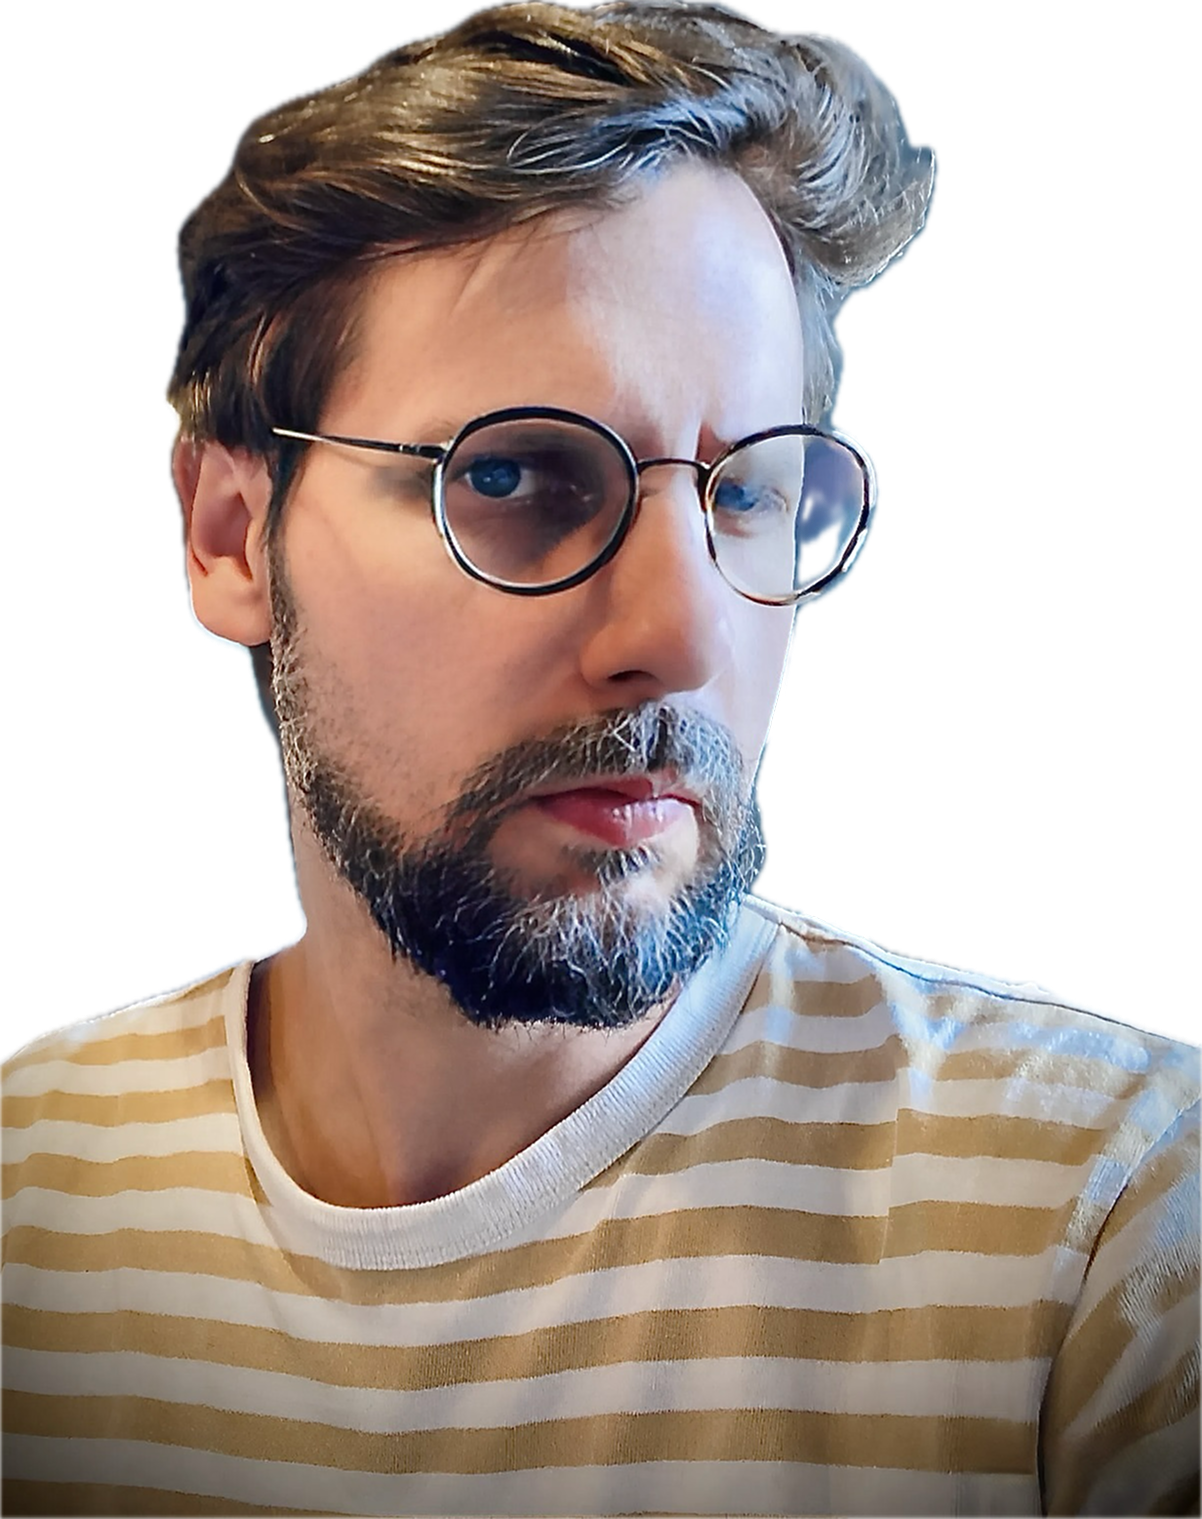
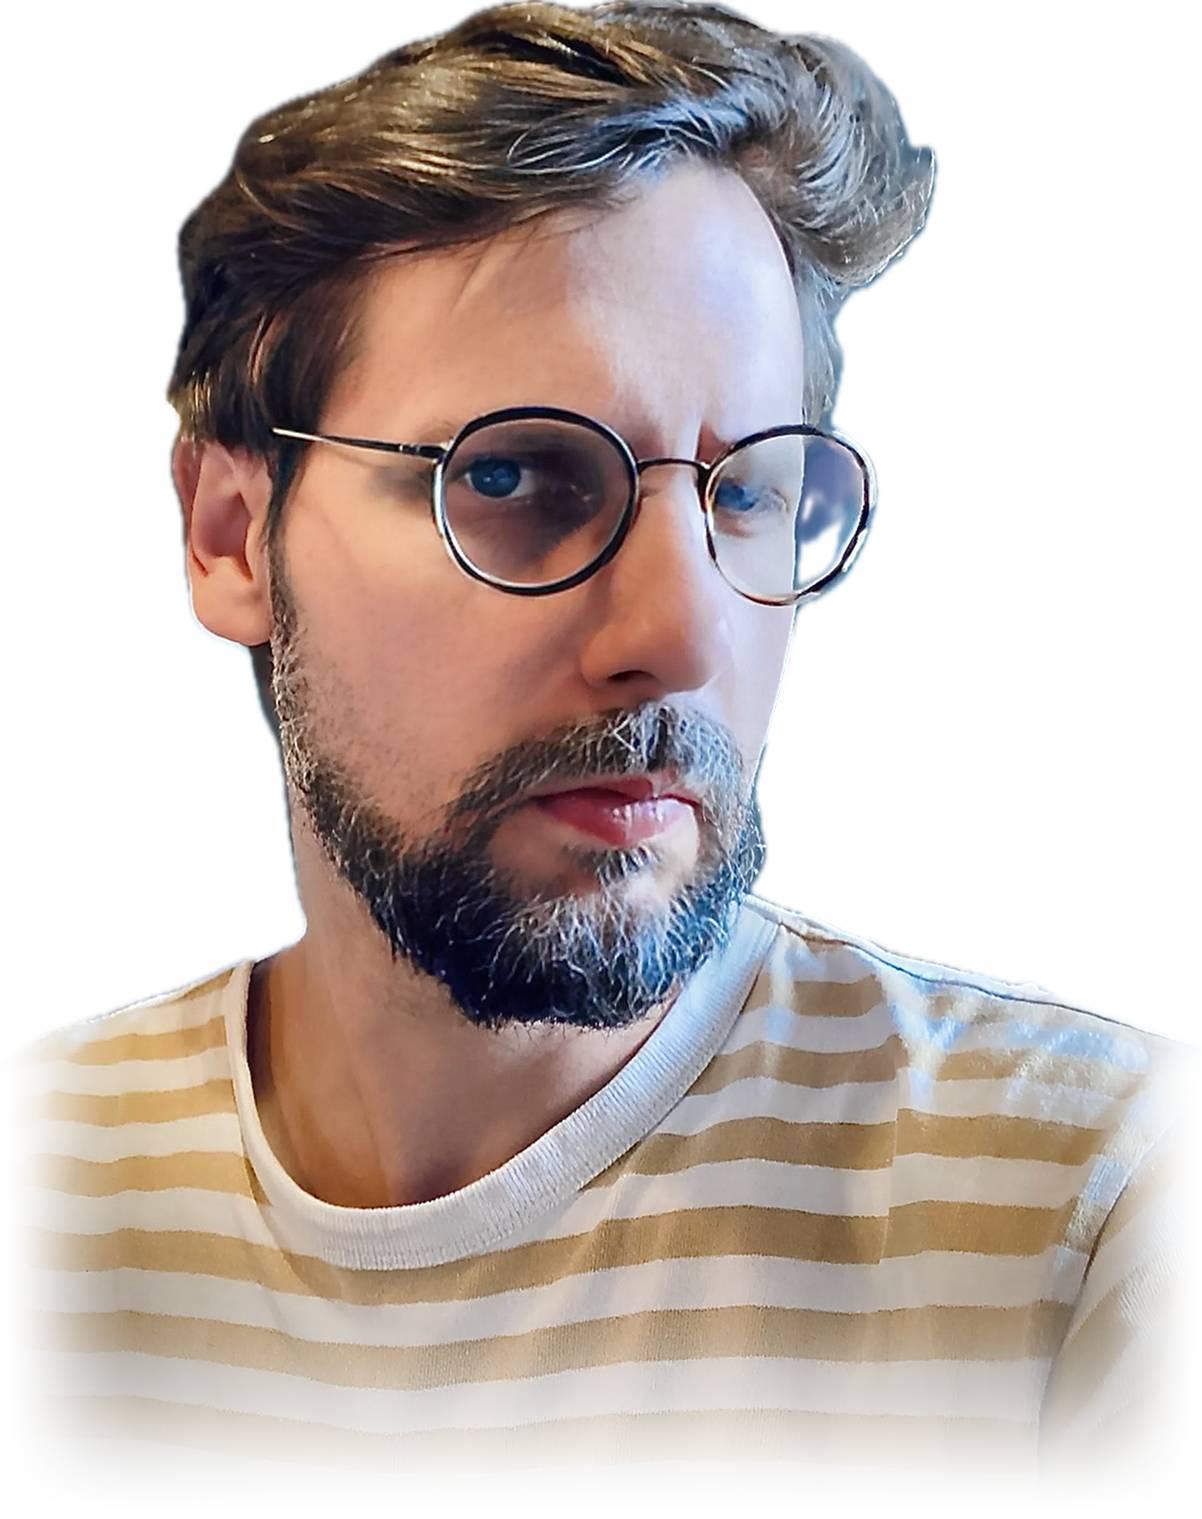
style(hero): elevate hero-facts into bold headline strip
- Restyle facts as uppercase bold headlines (narrow font, 19px/700) to give key credentials more visual weight
- Remove column dividers and tighten skill-cloud spacing for a more continuous hero block
- Change piece-body and about-body strong highlights from red to black for subtler inline emphasis
- Shorten Aftonbladet copy, rename Geospatial to Cartography, trim availability tagline

Changed region(s): [[0.0, 0.6807, 1.0, 1.0]]

diff --git a/index.html b/index.html
@@ -82,12 +82,15 @@
         padding: 0 44px;
       }
       mark,
-      .piece-body strong,
       .clients-intro strong {
         background: transparent;
         color: var(--red);
         font-weight: 700;
         font-style: normal;
+      }
+      .piece-body strong {
+        color: var(--ink);
+        font-weight: 700;
       }
 
       /* Topbar */
@@ -217,27 +220,29 @@
         display: grid;
         grid-template-columns: repeat(3, 1fr);
         gap: 0;
-        font-family: var(--mono);
-        font-size: 11.5px;
-        color: var(--muted);
+        font-family: var(--narrow);
+        font-size: 19px;
+        font-weight: 700;
+        color: var(--ink);
+        letter-spacing: 0.5px;
+        line-height: 1.3;
+        text-transform: uppercase;
       }
       .hero-facts .fact {
         display: flex;
         align-items: flex-start;
-        gap: 8px;
-        line-height: 1.5;
-        padding-right: 24px;
+        gap: 12px;
+        padding-right: 28px;
       }
       .hero-facts .fact + .fact {
-        border-left: 1px solid var(--line);
-        padding-left: 24px;
+        padding-left: 28px;
       }
       .hero-facts .sqs {
-        width: 8px;
-        height: 8px;
-        background: var(--red-block);
+        width: 11px;
+        height: 11px;
+        background: var(--red);
         flex-shrink: 0;
-        margin-top: 3px;
+        margin-top: 5px;
       }
 
       .section {
@@ -266,8 +271,10 @@
         flex-shrink: 0;
         background: var(--red);
       }
+      .hero-facts + .section {
+        margin-top: 72px;
+      }
       .stack-cloud {
-        margin-top: 16px;
         display: flex;
         flex-wrap: wrap;
         gap: 4px 20px;
@@ -408,7 +415,7 @@
         color: #333333;
       }
       .about-body strong {
-        color: var(--red);
+        color: var(--ink);
         font-weight: 700;
       }
       .piece-foot {
@@ -1467,10 +1474,7 @@
               Interactive tools, dashboards, and data stories for NGOs, research
               teams, and newsrooms working with consequential data.
             </p>
-            <p class="hero-avail">
-              Taking on fixed-scope freelance projects alongside my role at
-              Datastory.
-            </p>
+            <p class="hero-avail">Taking on fixed-scope freelance projects.</p>
           </div>
           <div class="hero-side">
             <img
@@ -1484,7 +1488,7 @@
         </section>
         <div class="hero-facts">
           <span class="fact"
-            ><span class="sqs" aria-hidden="true"></span> 20+ years frontend ·
+            ><span class="sqs" aria-hidden="true"></span> 20+ years frontend<br />
             10+ years dataviz</span
           >
           <span class="fact"
@@ -1492,8 +1496,8 @@
             most-viewed COVID dashboard</span
           >
           <span class="fact"
-            ><span class="sqs" aria-hidden="true"></span> Previously Spotify,
-            UN, Aftonbladet (Sweden's largest news site)</span
+            ><span class="sqs" aria-hidden="true"></span> Spotify, UN,
+            Aftonbladet (Sweden's #1 daily)</span
           >
         </div>
 
@@ -1511,7 +1515,7 @@
             <span class="sc">Vega-Lite</span>
             <span class="sc">Datawrapper</span>
             <span class="sc">Flourish</span>
-            <span class="sc">Geospatial</span>
+            <span class="sc">Cartography</span>
             <span class="sc">Figma</span>
             <span class="sc">Agile</span>
           </div>